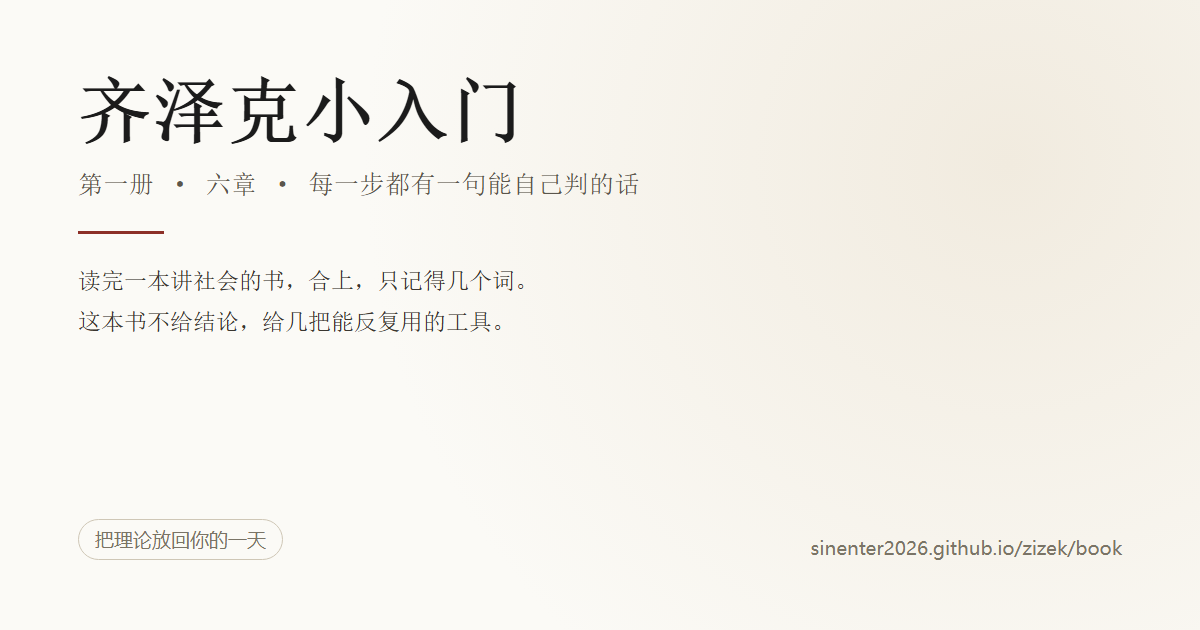
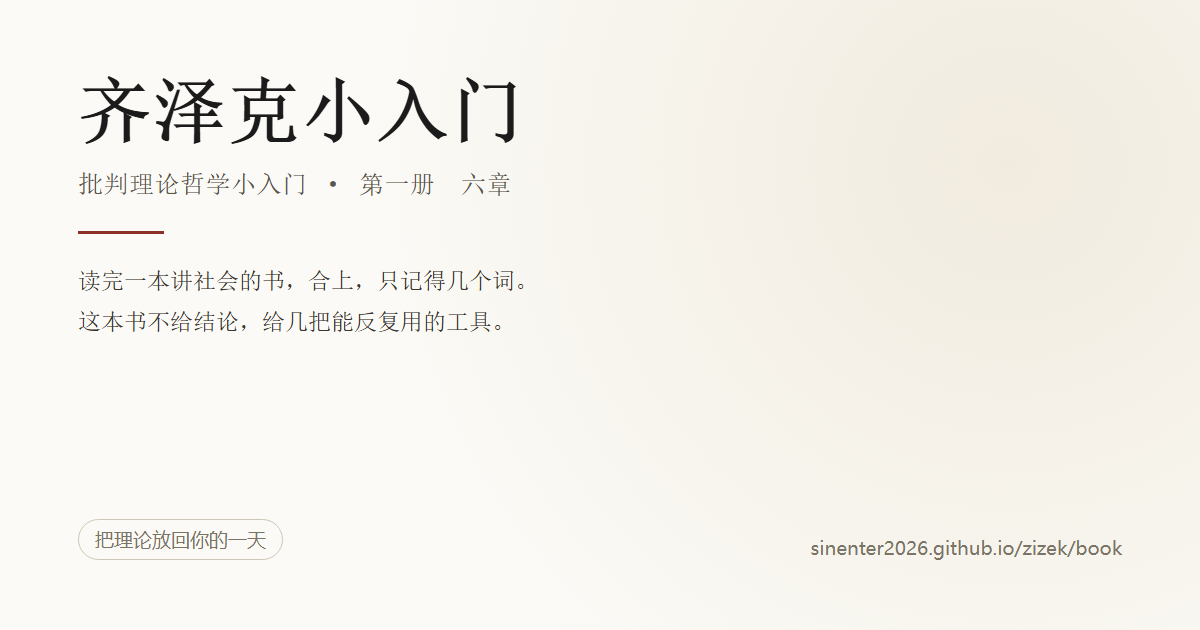
总名改为《批判理论哲学小入门》，书为第一册

Changed region(s): [[0.0617, 0.2714, 0.555, 0.3317]]

diff --git a/index.html b/index.html
@@ -1,11 +1,11 @@
 <!DOCTYPE html>
 <html lang="zh-CN"><head><meta charset="utf-8">
 <meta name="viewport" content="width=device-width,initial-scale=1">
-<title>齐泽克与拉康，从这里进门</title>
-<meta name="description" content="两份零基础可读的入门材料：一本六章的小书，一张九十一个格子的概念地图。不需要哲学背景。">
+<title>批判理论哲学小入门</title>
+<meta name="description" content="从黑格尔到齐泽克：一本六章的书，一张九十一个格子的地图。不需要哲学背景。">
 <meta name="theme-color" content="#fbfaf6">
 <meta property="og:type" content="website">
-<meta property="og:title" content="齐泽克与拉康，从这里进门">
+<meta property="og:title" content="批判理论哲学小入门">
 <meta property="og:description" content="不谈玄学，只谈你的一天：打卡、开会、刷手机、说「我觉得」。把理论拆成能自己上手的动作。">
 <meta property="og:image" content="https://sinenter2026.github.io/zizek/map/share.png">
 <meta name="twitter:card" content="summary_large_image">
@@ -33,13 +33,13 @@
 </style></head>
 <body>
 <div class="wrap">
-  <h1>齐泽克与拉康，从这里进门</h1>
-  <p class="lead">两份入门材料：一本六章的小书，一张九十一个格子的地图。</p>
+  <h1>批判理论哲学小入门</h1>
+  <p class="lead">从黑格尔到齐泽克：三股线索，一本六章的书，一张九十一个格子的地图。</p>
   <p class="sub">不需要哲学背景。不谈玄学，只谈你的一天。</p>
 
   <a class="card" href="book/">
     <div class="k">书</div>
-    <div class="t">齐泽克小入门</div>
+    <div class="t">第一册 · 齐泽克小入门</div>
     <p class="d">六章。每章三个你大概经历过的场面、一个被拆开的词、一句能自己判的话。读完带走的是工具，不是名词。</p>
   </a>
 
@@ -50,7 +50,8 @@
   </a>
 
   <div class="why">
-    <p><b>为什么会有这两份东西。</b>读理论最难受的一步，不是看不懂词，是不知道这个词跟你今天有什么关系。大他者听起来像神学，可它就是「上面要求的」里的那个「上面」——你顺着「这是谁定的」一路往上问，问不到具体的人，那就是它的位置。</p>
+    <p><b>它讲的是哪一路哲学。</b>书里出现最多的是拉康、马克思、黑格尔：精神分析、政治经济学批判、德国观念论，三条线在一个问题上交汇——为什么明知不对，还是照做。齐泽克是把这三条线接在一起的当代接线员。</p>
+    <p><b>为什么不从定义开始。</b>读理论最难受的一步，不是看不懂词，是不知道这个词跟你今天有什么关系。大他者听起来像神学，可它就是「上面要求的」里的那个「上面」——你顺着「这是谁定的」一路往上问，问不到具体的人，那就是它的位置。</p>
     <p>所以这两份材料都从一个具体动作开始：早上几点打卡，会上谁在替你说话，刷完两小时你记住什么。词跟着动作走，门槛就低了一截。</p>
   </div>
 

diff --git a/book/index.html b/book/index.html
@@ -5,7 +5,7 @@
 <meta name="viewport" content="width=device-width, initial-scale=1">
 <title>齐泽克小入门 · 第一册</title>
 <meta name="description" content="一本给普通读者的齐泽克入门。六章，从「我」怎么被安排讲起，每一步都给你一句能自己判的话。">
-<meta property="og:title" content="齐泽克小入门 · 第一册">
+<meta property="og:title" content="批判理论哲学小入门 · 第一册 齐泽克小入门">
 <meta property="og:description" content="六章，九十一个概念，一套能自己上手用的判断方法。">
 <meta property="og:type" content="book">
 <style>

diff --git a/README.md b/README.md
@@ -1,15 +1,29 @@
-# 齐泽克与拉康，从这里进门
+# 批判理论哲学小入门
 
-两份零基础可读的入门材料，放在一个仓库里：
+从黑格尔到齐泽克：一本六章的书，一张九十一个格子的概念地图。
+
+不需要哲学背景。每一章、每一格都不从定义开始，而从你大概经历过的场面开始。
 
 - **书**：`book/` — 六章，从「我」怎么被安排讲起。在线读：`book/index.html`
 - **图**：`map/` — 九十一个概念、二百八十三条关系，可以点着走。在线看：`map/index.html`
 
-不需要哲学背景。每一章、每一格都不从定义开始，而从你大概经历过的场面开始。
-
 在线阅读：`https://sinenter2026.github.io/zizek/`（书 `/book/`，图 `/map/`）
 
-## 一、这两份东西想解决什么
+## 一、它讲的是哪一路哲学
+
+书里出现最多的是拉康（34 次）、马克思（28 次）、黑格尔（17 次），其次是阿尔都塞（9 次）、弗洛伊德（4 次）、巴迪欧（4 次）。
+
+三条线索：
+
+- **德国观念论**（黑格尔）：否定性、承认、实体即主体
+- **政治经济学批判**（马克思）：账本、剩余、商品拜物教
+- **精神分析**（弗洛伊德到拉康）：无意识、享乐、对象 a、主体空位
+
+它们在一个问题上交汇：**为什么明知不对，还是照做。**
+
+学术上这个名字叫意识形态批判，说得具体一点是拉康式马克思主义。这本书把它翻译成日常问题。
+
+## 二、这两份东西想解决什么
 
 读理论最难受的一步，不是看不懂词，是不知道这个词跟你今天有什么关系。
 
@@ -25,7 +39,7 @@
 
 每节末尾有判据，就是那句「你能拿它来判什么」；每章末尾写了「可能错在哪」。
 
-## 三、为什么是「工具」不是「结论」
+## 三、为什么给工具不给结论
 
 读完一本讲社会的书，合上，记得几个词：内卷、异化、结构、算法。第二天照旧上班。过一个月朋友提起其中一个词，你想了两秒：「哦对，就是那个。」
 
